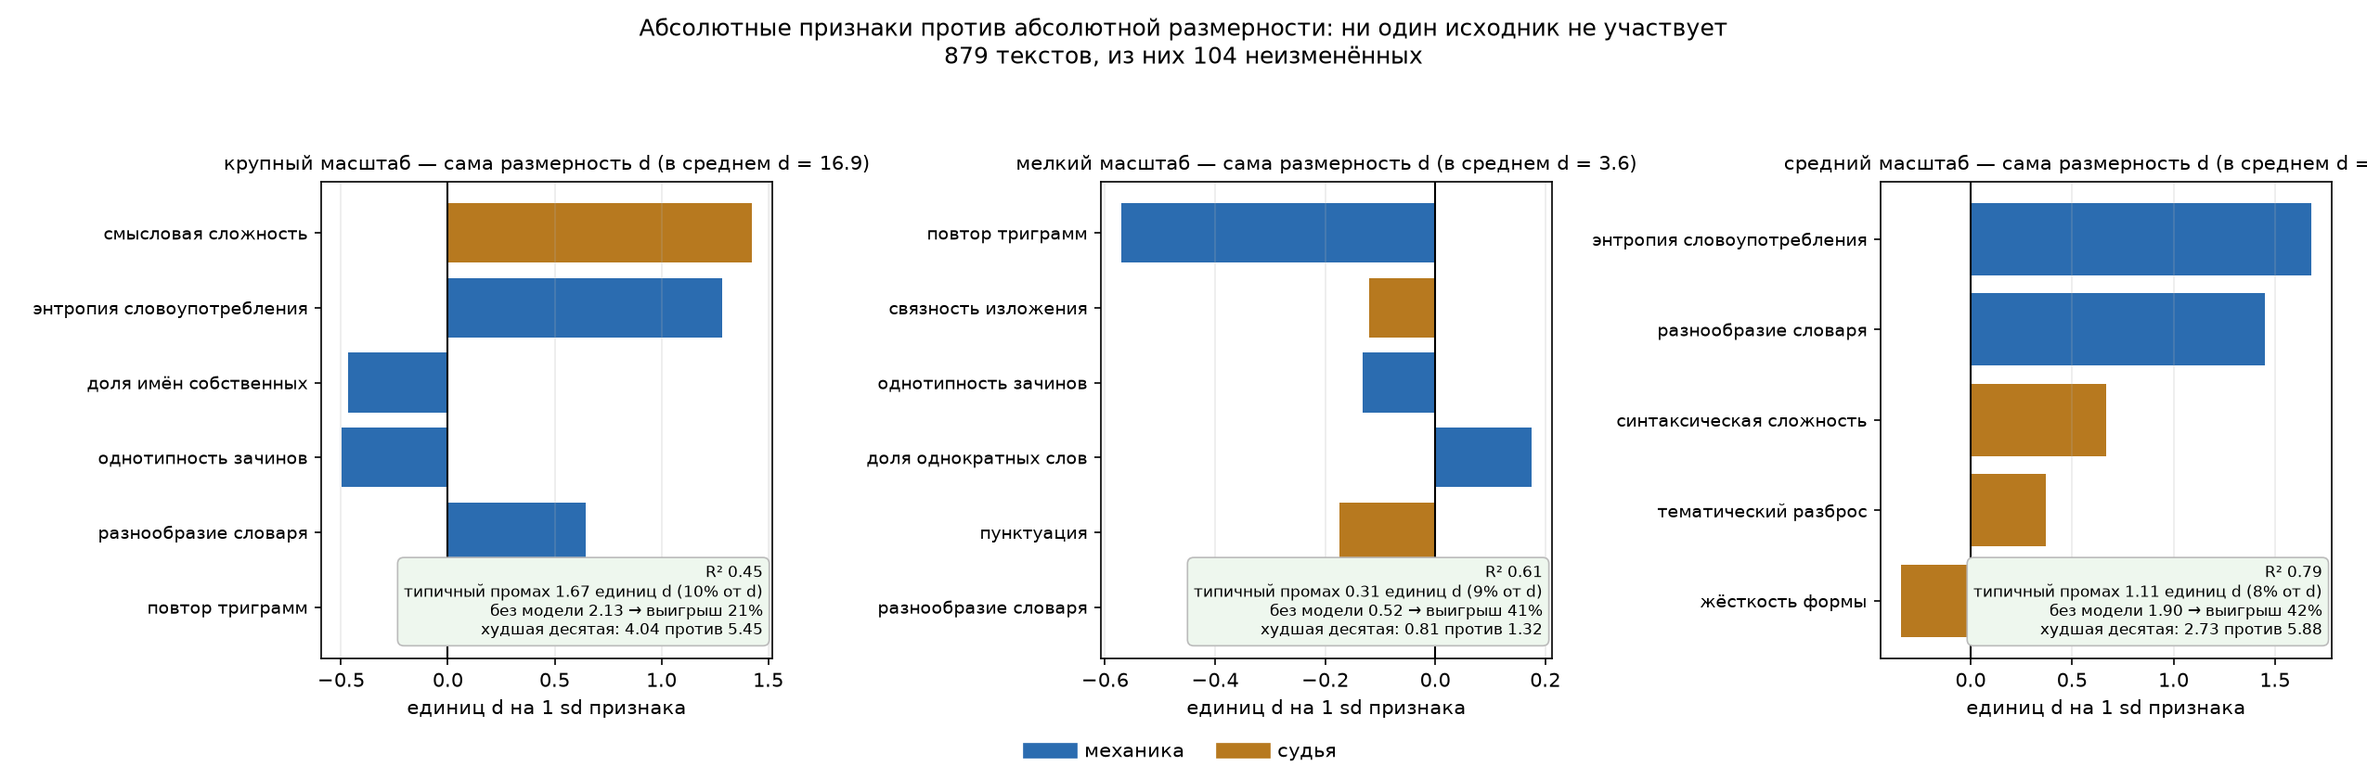
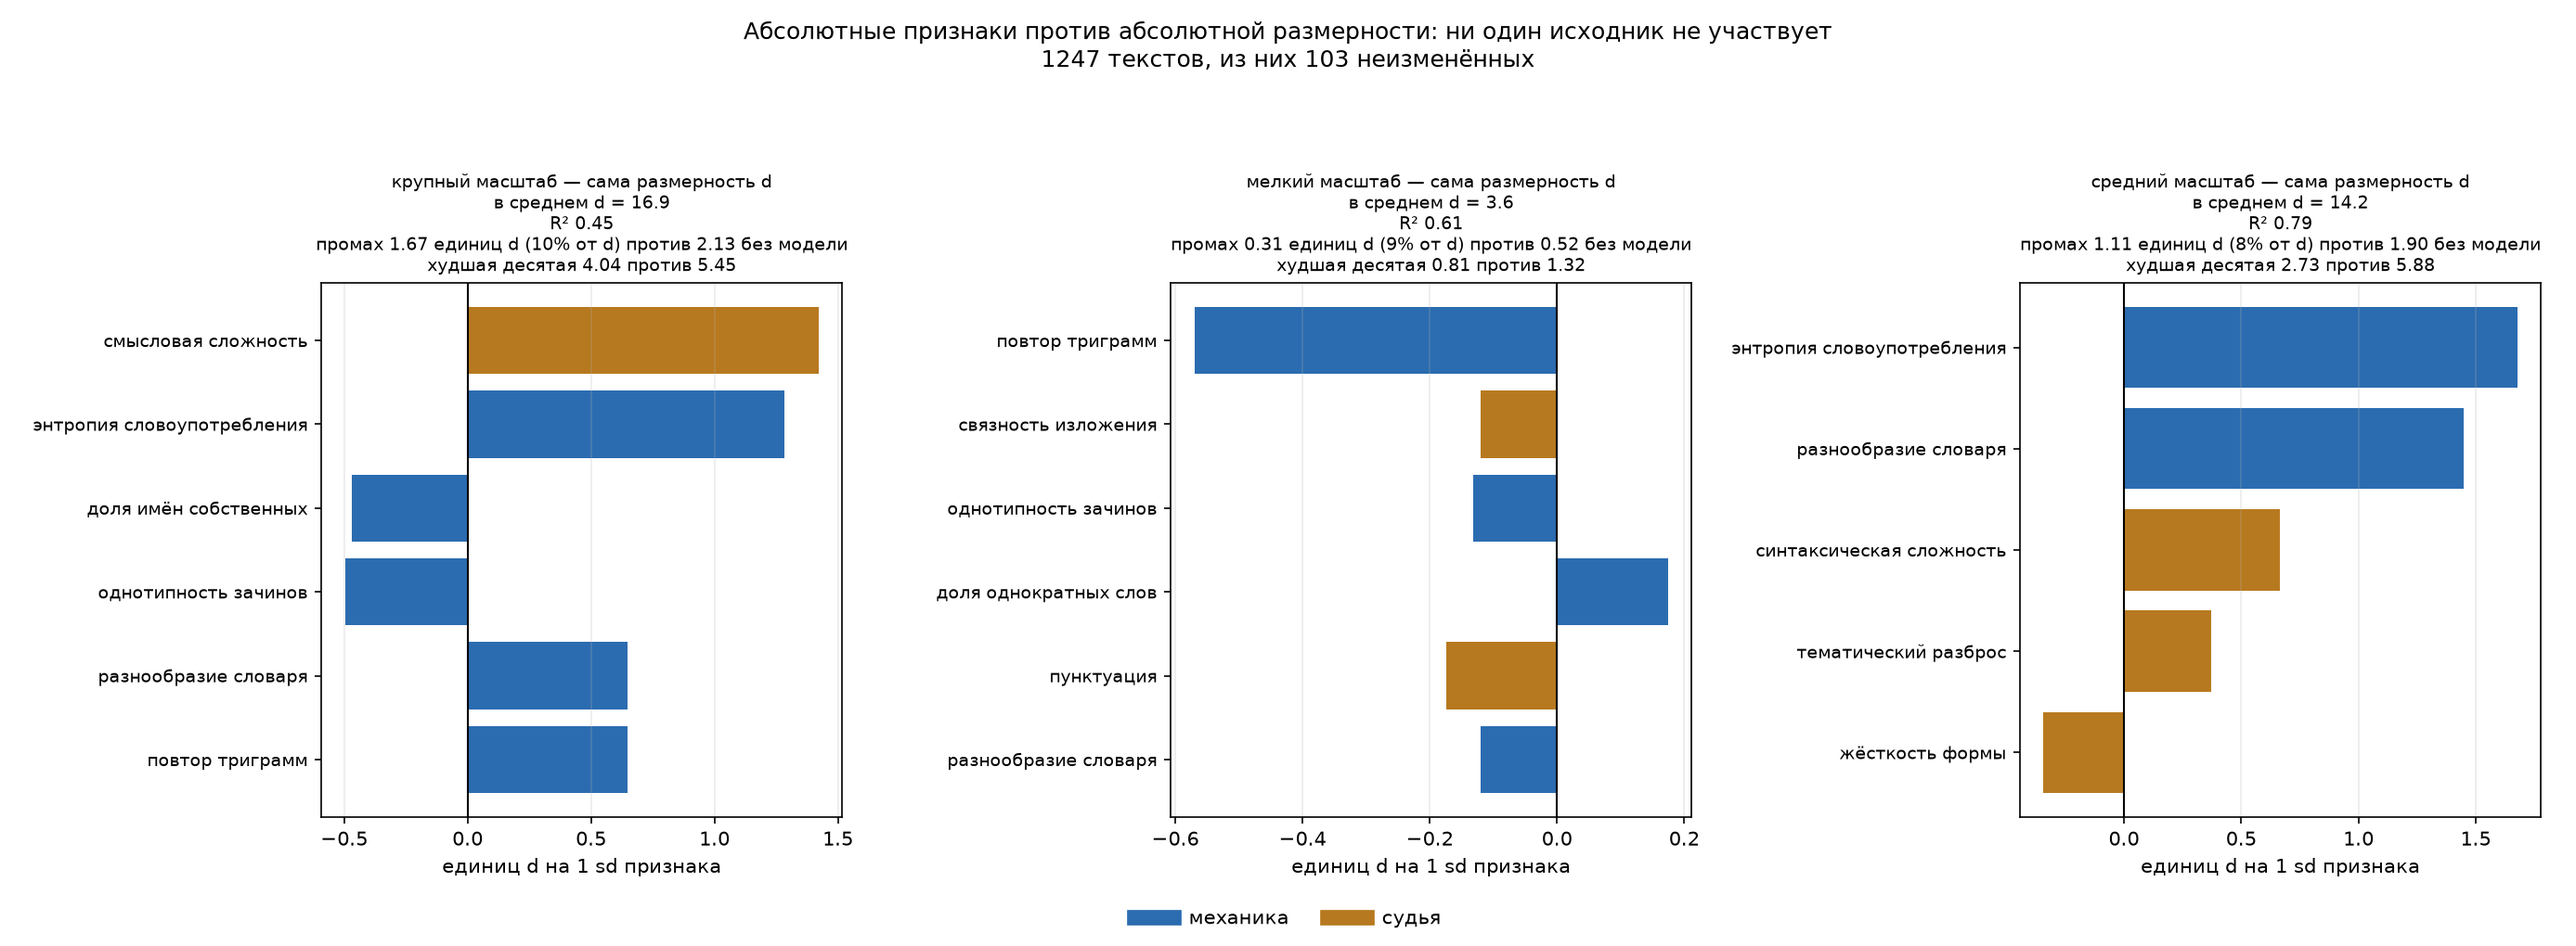
Move the fit caption above the axes and stop it running off the edge
It sat inside the axes and covered the bars it described, and the one-line
version was clipped in the rightmost column. It is now the panel subtitle, in
short lines, and the absolute panels state mean d so a miss of 1.67 is not read
as a percentage.

diff --git a/phdq_ext/experiments/band_models_abs.py b/phdq_ext/experiments/band_models_abs.py
@@ -170,7 +170,7 @@ def main():
         print(f"\n=== {r['вариант']} | {r['полоса']} | {r['режим']}")
         print(g[["шаг", "признак", "тип", "коэффициент", "R2 накопл."]]
               .round(2).to_string(index=False))
-    figure(T, I)
+    figure(T, I, int((W.perturbation == 'identity').sum()))
 
 
 def panel(ax, g, r, unit, title):
@@ -181,43 +181,42 @@ def panel(ax, g, r, unit, title):
     ax.set_yticks(range(len(g)))
     ax.set_yticklabels(g["признак"], fontsize=9)
     ax.axvline(0, c="k", lw=1)
-    ax.set_title(title, fontsize=10)
-    ax.set_xlabel(f"{unit} на 1 sd признака")
     ax.grid(axis="x", alpha=0.25)
     # R2 alone hides the scale, so the median miss is given against the
-    # do-nothing baseline that always predicts the average
+    # do-nothing baseline that always predicts the average. It goes above the
+    # axes rather than inside them, where it sat on top of the bars.
     gain = 1 - r["ошибка: медиана"] / r["без модели: медиана"]
     # d is a dimension, not a percentage, so the miss is also given as a share
     # of the mean d -- otherwise "1.95" reads as suspiciously small
     share = (f" ({r['ошибка: медиана'] / r['среднее цели']:.0%} от d)"
              if unit == "единиц d" else "")
-    ax.text(0.98, 0.04,
-            f"R² {r['R2']:.2f}\n"
-            f"типичный промах {r['ошибка: медиана']:.2f} {unit}{share}\n"
-            f"без модели {r['без модели: медиана']:.2f} → выигрыш {gain:.0%}\n"
-            f"худшая десятая: {r['ошибка: 90-й']:.2f} против "
-            f"{r['без модели: 90-й']:.2f}",
-            transform=ax.transAxes, ha="right", va="bottom", fontsize=8,
-            bbox=dict(boxstyle="round,pad=0.4", fc="#fff8e6" if gain < 0.15
-                      else "#eef7ee", ec="#bbb", lw=0.8))
+    ax.set_title(
+        f"{title}\n"
+        f"R² {r['R2']:.2f}\n"
+        f"промах {r['ошибка: медиана']:.2f} {unit}{share} против "
+        f"{r['без модели: медиана']:.2f} без модели\n"
+        f"худшая десятая {r['ошибка: 90-й']:.2f} против "
+        f"{r['без модели: 90-й']:.2f}", fontsize=9)
+    ax.set_xlabel(f"{unit} на 1 sd признака")
 
 
-def figure(T, I):
+def figure(T, I, n_src):
     B = I[I["вариант"].str.startswith("B")]
-    fig, axes = plt.subplots(1, 3, figsize=(17, 5.6))
+    fig, axes = plt.subplots(1, 3, figsize=(18.5, 6.8))
     for ax, band in zip(axes, BANDS):
         g = T[(T["вариант"].str.startswith("B")) & (T["полоса"] == band)]
         r = B[B["полоса"] == band].iloc[0]
         mean = r["среднее цели"]
         panel(ax, g, r, "единиц d",
-              f"{band} масштаб — сама размерность d "
-              f"(в среднем d = {mean:.1f})")
+              f"{band} масштаб — сама размерность d\n"
+              f"в среднем d = {mean:.1f}")
     h = [plt.Line2D([], [], color="#2b6cb0", lw=8, label="механика"),
          plt.Line2D([], [], color="#b7791f", lw=8, label="судья")]
     fig.legend(handles=h, loc="lower center", ncol=2, frameon=False)
+    n = int(B["n"].iloc[0])
     fig.suptitle("Абсолютные признаки против абсолютной размерности: "
                  "ни один исходник не участвует\n"
-                 "879 текстов, из них 104 неизменённых", fontsize=12)
+                 f"{n} текстов, из них {n_src} неизменённых", fontsize=12)
     fig.tight_layout(rect=(0, 0.05, 1, 0.93))
     path = os.path.join(BASE, "figures", f"band_models_abs{SUF}.png")
     fig.savefig(path, dpi=150)

diff --git a/phdq_ext/experiments/band_models.py b/phdq_ext/experiments/band_models.py
@@ -180,7 +180,7 @@ def main():
 
 def figure(T, I):
     modes = ["все тексты", "внутри"]
-    fig, axes = plt.subplots(2, 3, figsize=(17, 10))
+    fig, axes = plt.subplots(2, 3, figsize=(17, 11.5))
     for j, band in enumerate(BANDS):
         for i, mode in enumerate(modes):
             ax = axes[i][j]
@@ -194,23 +194,20 @@ def figure(T, I):
             ax.set_yticks(range(len(g)))
             ax.set_yticklabels(g["признак"], fontsize=9)
             ax.axvline(0, c="k", lw=1)
-            ax.set_title(f"{band} масштаб — {mode}", fontsize=11)
             ax.set_xlabel("% сдвига полосы на 1 sd признака")
             ax.grid(axis="x", alpha=0.25)
             r = I[(I["полоса"] == band) & (I["режим"] == mode)].iloc[0]
             gain = 1 - r["ошибка: медиана"] / r["без модели: медиана"]
-            ax.text(0.98, 0.04,
-                    f"R² {r[f'R2 отложенных ({SPLIT})']:.2f}\n"
-                    f"типичный промах {r['ошибка: медиана']:.1f}%\n"
-                    f"без модели {r['без модели: медиана']:.1f}% → "
-                    f"выигрыш {gain:.0%}\n"
-                    f"худшая десятая: {r['ошибка: 90-й']:.1f} против "
-                    f"{r['без модели: 90-й']:.1f}",
-                    transform=ax.transAxes, ha="right", va="bottom",
-                    fontsize=8,
-                    bbox=dict(boxstyle="round,pad=0.4",
-                              fc="#fff8e6" if gain < 0.15 else "#eef7ee",
-                              ec="#bbb", lw=0.8))
+            # above the axes: inside them it covered the bars it describes
+            # short lines: the one-line version ran off the right edge of the
+            # rightmost column
+            ax.set_title(
+                f"{band} масштаб — {mode}\n"
+                f"R² {r[f'R2 отложенных ({SPLIT})']:.2f}\n"
+                f"промах {r['ошибка: медиана']:.1f}% против "
+                f"{r['без модели: медиана']:.1f}% без модели\n"
+                f"худшая десятая {r['ошибка: 90-й']:.1f} против "
+                f"{r['без модели: 90-й']:.1f}", fontsize=9)
     h = [plt.Line2D([], [], color="#2b6cb0", lw=8, label="механика"),
          plt.Line2D([], [], color="#b7791f", lw=8, label="судья")]
     fig.legend(handles=h, loc="lower center", ncol=2, frameon=False)
